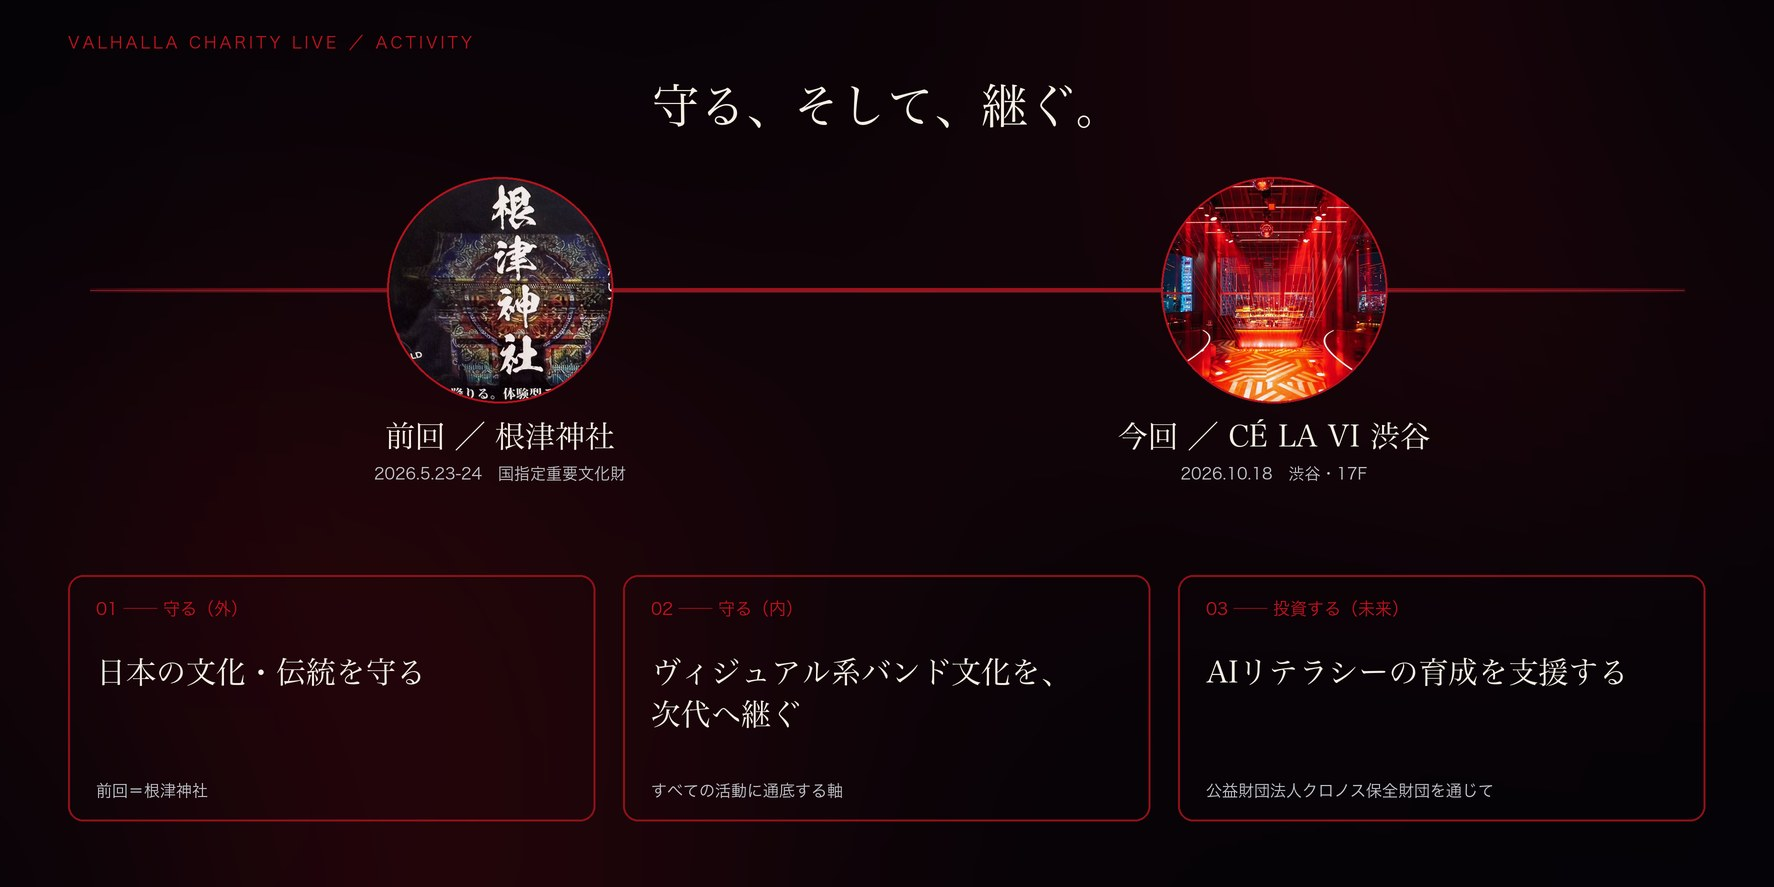
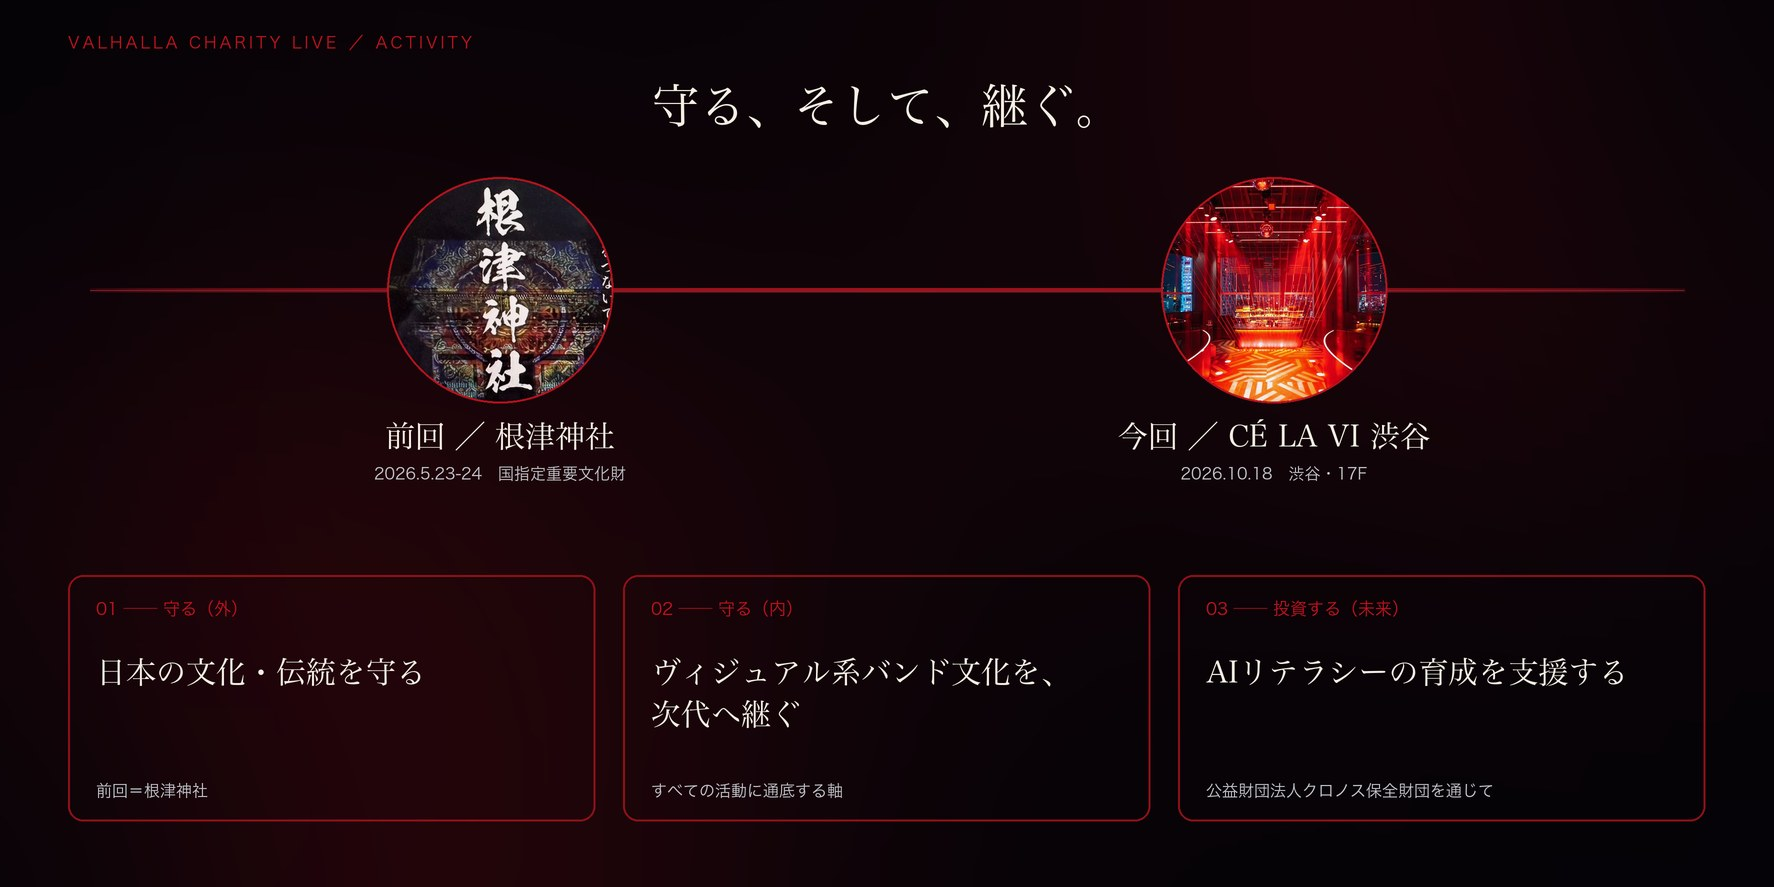
charity: center the Nezu calligraphy inside the circle
nezu_flyer.jpg のクロップを (40,55,430,445) から (78,52,438,412) へ変更。
「根津神社」の書の中心(258,232)を一辺360pxの正方形の中心に合わせた。

Changed region(s): [[0.217, 0.2131, 0.341, 0.4566]]

diff --git a/assets/charity/create_axis_banner.py b/assets/charity/create_axis_banner.py
@@ -150,7 +150,7 @@ def add_timeline(base: Image.Image) -> None:
     diameter = 226
     add_light_ribbon(base, y=290, start=90, end=1684)
 
-    circle_photo(base, left, diameter, NEZU, crop_box=(40, 55, 430, 445))
+    circle_photo(base, left, diameter, NEZU, crop_box=(78, 52, 438, 412))
     circle_photo(base, right, diameter, CELAVI, focal_x=0.5, focal_y=0.5, zoom=1.0)
     outline = Image.new("RGBA", base.size, (0, 0, 0, 0))
     draw_ring(ImageDraw.Draw(outline), left, diameter)
